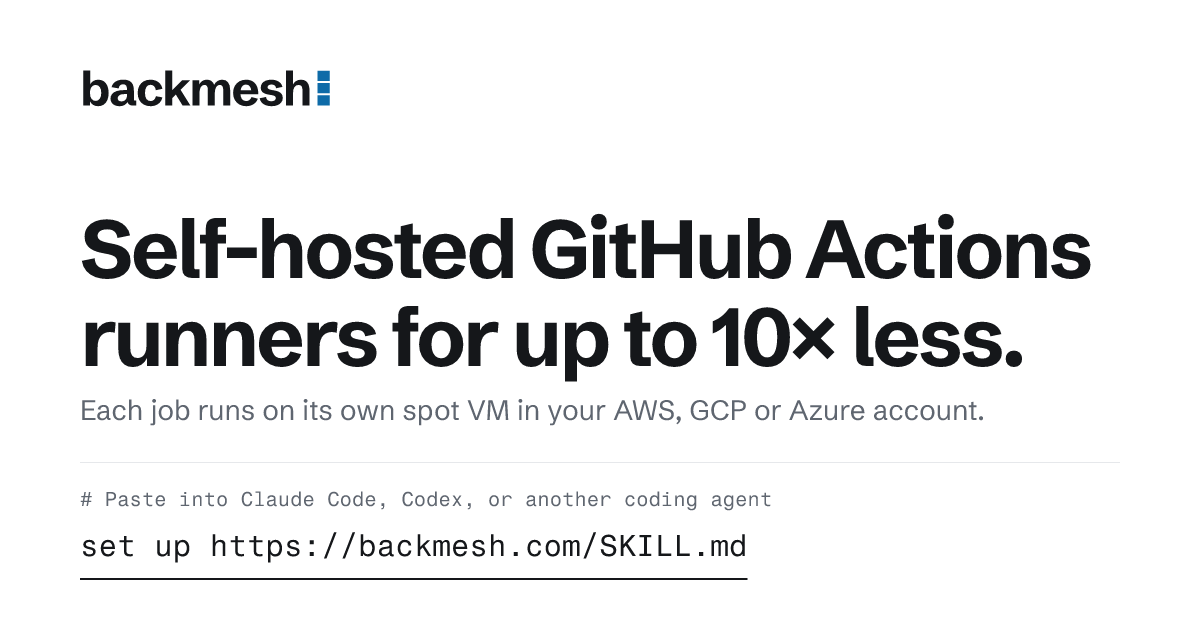
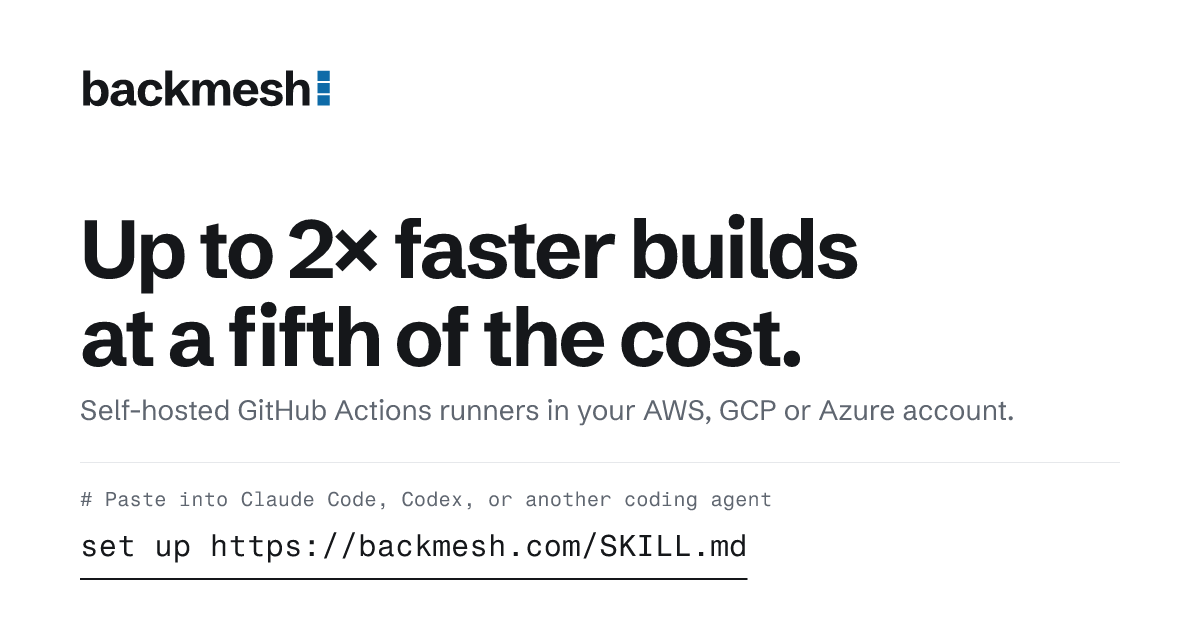
Launch copy: up to 2× faster builds at a fifth of the cost
The 'up to 10× less' claim becomes the measured headline in the README,
the FAQ, the landing page's meta and H1, the OG image and llms.txt. The
landing page gets three benchmark cards for Docker, Rust and TypeScript
builds against ubuntu-latest, with a method note. benchmarks/builds has
the workflow and the results.

Launch-path docs fixes: the control plane names its VM types, the README
and FAQ say how an org that restricts OAuth apps grants backmesh, install
lists curl, tar and sha256sum or shasum, the security page links
anycloud's AWS access policy, and the public-repos check is marked as for
maintainers only.

Changed region(s): [[0.0617, 0.3317, 0.925, 0.4524], [0.0617, 0.4825, 0.8633, 0.6032], [0.0617, 0.6333, 0.8633, 0.6635]]

diff --git a/website/src/pages/llms.txt.ts b/website/src/pages/llms.txt.ts
@@ -32,6 +32,7 @@ export const GET: APIRoute = async ({ site }) => {
 
 - Linux x86-64 jobs in private repositories only: no macOS, Windows, Arm or GPU runners.
 - A job's \`runs-on\` label, such as \`backmesh-4\`, picks its size and cloud. Spot is the default; \`backmesh-od-*\` labels run on demand.
+- Builds: in our benchmarks (https://github.com/backmesh/backmesh/tree/main/benchmarks/builds), a 4-vCPU \`backmesh-4\` spot VM ran Docker, Rust and TypeScript builds 1.4 to 2.1× faster than GitHub's 2-vCPU \`ubuntu-latest\`, at 2.9 to 5.6× less per build, before backmesh's control plane.
 - Compute: ${MINUTES.toLocaleString('en-US')} minutes a month of 4-vCPU Linux jobs cost ${money(headline.github)} on GitHub-hosted runners and ${money(headline.low)}–${money(headline.high)} on backmesh at spot prices, control plane included, before disks, VM boots and runners started ahead of jobs.
 - Pricing: free and open source (Apache-2.0; the cache action is MIT), with unlimited jobs and the cache included; your clouds bill you for the VMs. Premium adds Slack monitoring, logs and runtime history; talk to us at luis@backmesh.com.
 

diff --git a/benchmarks/builds/README.md b/benchmarks/builds/README.md
@@ -1,0 +1,46 @@
+# Build benchmarks
+
+How long three open-source builds take on a `backmesh-4` runner and on
+GitHub's `ubuntu-latest`, and what each build costs.
+
+[`bench.yml`](bench.yml) has three jobs, each checking out a pinned release of
+a public project and building it:
+
+- **Docker**: `docker build` of [grafana/k6](https://github.com/grafana/k6)
+  v0.54.0's image.
+- **Rust**: `cargo build --release --locked` of
+  [BurntSushi/ripgrep](https://github.com/BurntSushi/ripgrep) 14.1.1.
+- **TypeScript**: `npm ci` and `npx hereby local` of
+  [microsoft/TypeScript](https://github.com/microsoft/TypeScript) v5.6.3.
+
+The repository variable `BENCH_RUNNER` picks the runner: `backmesh-4` or
+`ubuntu-latest`. A push to the `bench` branch starts a round.
+
+## Results
+
+Measured on 2026-11-18 in a private repository, 5 rounds on each runner. The
+figures are medians.
+
+| Build      | backmesh-4 | ubuntu-latest | Faster | Cost a build, backmesh-4 | Cost a build, ubuntu-latest | Cheaper |
+| ---------- | ---------- | ------------- | ------ | ------------------------ | --------------------------- | ------- |
+| Docker     | 71 s       | 148 s         | 2.1×   | $0.0032                  | $0.018                      | 5.6×    |
+| Rust       | 49 s       | 70 s          | 1.4×   | $0.0027                  | $0.012                      | 4.4×    |
+| TypeScript | 35 s       | 56 s          | 1.6×   | $0.0021                  | $0.006                      | 2.9×    |
+
+## Method
+
+- **Runtime** is a job's start to its finish. Cold start, a job's queue to its
+  start, isn't in it: 2 s on GitHub, 43 to 50 s on backmesh without a cue, and
+  about 17 s with `backmesh cue` ([cue results](../cue/README.md#results)).
+- **Size.** `ubuntu-latest` in a private repository has 2 vCPUs; `backmesh-4`
+  has 4 vCPUs and 16 GiB.
+- **GitHub's cost** is whole minutes at $0.006 a minute.
+- **backmesh's cost** is its spot VM in us-east-2, at the middle of $0.0497 to
+  $0.07 an hour, and its 100 GB gp3 disk at 4,000 IOPS and 500 MiB/s, counted
+  from the VM's boot. It leaves out backmesh's control plane, about $86 a
+  month on AWS.
+- **Caches.** Neither side used a build cache, except setup-node's default npm
+  cache, on both.
+- **Toolchains.** `ubuntu-latest` has Rust preinstalled. backmesh's image
+  doesn't: its first-use handler (`runner/first-use.bash`) installs Ubuntu's
+  `cargo` package when the job first calls it, inside the measured time.

diff --git a/README.md b/README.md
@@ -3,8 +3,11 @@
 Self-hosted GitHub Actions runners in your own AWS, GCP or Azure account. Each
 job runs on its own spot VM, which is deleted when the job ends.
 
-- **Lower cost.** Spot VMs cost up to 10× less than GitHub-hosted runners for
-  the same compute. Your cloud bills you, so your cloud credits apply.
+- **Up to 2× faster builds at a fifth of the cost.** In our
+  [build benchmarks](benchmarks/builds/), a `backmesh-4` spot VM ran Docker,
+  Rust and TypeScript builds 1.4 to 2.1× faster than GitHub's `ubuntu-latest`,
+  at 2.9 to 5.6× less per build. Your cloud bills you, so your cloud credits
+  apply.
 - **Faster jobs.** backmesh learns each workflow's shape and starts runners
   ahead of its predicted jobs. Your coding agent can cue backmesh as its checks
   start, so runners boot before the push. The cache keeps your dependencies
@@ -40,6 +43,8 @@ You need:
   during install.
 - An AWS, GCP or Azure account, with its CLI (`aws`, `gcloud` or `az`) signed
   in on your `PATH`.
+- If the org restricts OAuth apps, an owner grants backmesh access at sign-in
+  ([how](https://backmesh.com/faq/#installing)).
 
 Then use a label in a workflow:
 
@@ -58,8 +63,8 @@ Only Linux x86-64 jobs in private repositories can use the runners. See
 
 ## How it works
 
-Install creates backmesh's control plane in your account: two small always-on
-VMs, about $74–$111 a month. On one of them, a listener long-polls GitHub for
+Install creates backmesh's control plane in your account: two always-on VMs (t3.large and t3.small on AWS),
+about $74–$111 a month. On one of them, a listener long-polls GitHub for
 queued jobs, so nothing needs an inbound port or a webhook. For each job, it
 starts a VM in the cheapest region with capacity, and the VM is deleted when the
 job ends. Runners can be in other clouds than the control plane. Every job gets

diff --git a/website/src/content/docs/faq.md b/website/src/content/docs/faq.md
@@ -28,8 +28,9 @@ in apps, now archived at
 GitHub Actions runners.
 
 **How does backmesh compare with GitHub-hosted runners?** A workflow changes only its
-`runs-on`. Its jobs run on spot VMs in your accounts, so compute costs up to 10×
-less and your cloud credits apply. Each job waits for its VM to boot, and only
+`runs-on`. Its jobs run on spot VMs in your accounts. In our
+[build benchmarks](/#benchmarks), builds ran up to 2× faster at a fifth of the
+cost, and your cloud credits apply. Each job waits for its VM to boot, and only
 Linux x86-64 jobs in private repositories can use the runners.
 
 **Which clouds does backmesh run on?** AWS, Google Cloud (GCP) and Azure. One installation can use
@@ -71,11 +72,12 @@ VM, so no image layers carry over.
 
 ## Installing
 
-**Can I install backmesh when my org restricts OAuth apps?** Yes, once an org
-owner approves backmesh at
-`https://github.com/organizations/<org>/settings/oauth_application_policy`. An
-org with OAuth app access restrictions, the default for a new org, refuses
-install's sign-in until then.
+**Can I install backmesh when my org restricts OAuth apps?** Yes. An org with
+OAuth app access restrictions, the default for a new org, refuses install's
+sign-in until backmesh is approved. On GitHub's consent screen at sign-in, an
+org owner clicks **Grant** next to the org. Anyone else clicks **Request**,
+and an owner then approves it at
+`https://github.com/organizations/<org>/settings/oauth_application_policy`.
 
 **Where does backmesh put its control plane?** With several cloud CLIs signed in and no
 `--control-plane`, install picks the first of AWS, GCP and Azure, and the plan

diff --git a/website/src/content/docs/security.md b/website/src/content/docs/security.md
@@ -7,8 +7,8 @@ description: What runs where, what reaches backmesh, the GitHub App's permission
 
 Everything backmesh runs is in your own accounts:
 
-- **backmesh's control plane**, two small always-on VMs in the first cloud you
-  install, with a checkpoint bucket for its backups.
+- **backmesh's control plane**, two always-on VMs (t3.large and t3.small on
+  AWS) in the first cloud you install, with a checkpoint bucket for its backups.
 - **The listener**, which scales runners, alone on one of those VMs. It
   long-polls GitHub, so nothing needs an inbound port or a webhook.
 - **The runners**: each job gets its own spot or on-demand VM, which is deleted
@@ -42,7 +42,10 @@ SHA-256 digest, so it needs network access to GitHub's release downloads.
 Install creates the control plane and each cloud's role through your signed-in
 cloud CLI, as you, so that identity needs the rights to create them:
 
-- **AWS:** a CloudFormation stack with an IAM role and OIDC provider.
+- **AWS:** a CloudFormation stack with an IAM role and OIDC provider. The
+  role's rights are anycloud's
+  [AWS access policy](https://github.com/anycloud-sh/anycloud/blob/main/src/shared/cloud-policies/aws-anycloud-access.json),
+  plus `ec2:ModifyVolume` from backmesh v0.4.2.
 - **GCP:** a custom role, a service account, and a workload identity pool and
   provider with their IAM bindings, plus turning on the Compute, IAM, IAM
   Credentials and Security Token Service APIs.

diff --git a/website/src/content/docs/install.md b/website/src/content/docs/install.md
@@ -31,6 +31,7 @@ You need:
   a project, or `az` with a subscription, with
   [the rights install needs](/security/#what-install-needs). What install
   creates in each cloud: [AWS](/aws/), [GCP](/gcp/), [Azure](/azure/).
+- `curl`, `tar`, and `sha256sum` or `shasum`, for the install script.
 
 ## Run install
 
@@ -43,8 +44,8 @@ else signs you in and lists the orgs you're an admin of to pick from. Without a
 terminal it asks nothing and names your orgs and the command to run instead.
 
 With nothing else, the control plane and runners go on the cloud your CLI is
-signed in to, near GitHub's US East. The control plane is two small always-on
-VMs in your account that start runners for your jobs (about $74–$111 a month).
+signed in to, near GitHub's US East. The control plane is two always-on VMs
+(t3.large and t3.small on AWS) in your account that start runners for your jobs (about $74–$111 a month).
 To choose, see [Control plane and runners](#control-plane-and-runners). To see
 the plan first:
 

diff --git a/benchmarks/public-repos/README.md b/benchmarks/public-repos/README.md
@@ -1,9 +1,10 @@
 # Public-repos live check
 
+For maintainers: `--public-repos` is not supported for customers yet.
+
 The paid live check for public-repository support. It runs on a public repo whose org has an install with `--public-repos`, from a
 second GitHub account's fork. It needs a second account, so it's a runbook,
-not an E2E member. Recommended to run right after the move, on the `backmesh`
-org's install, with the owner's OK first, since it's paid.
+not an E2E member.
 
 ## Setup
 
